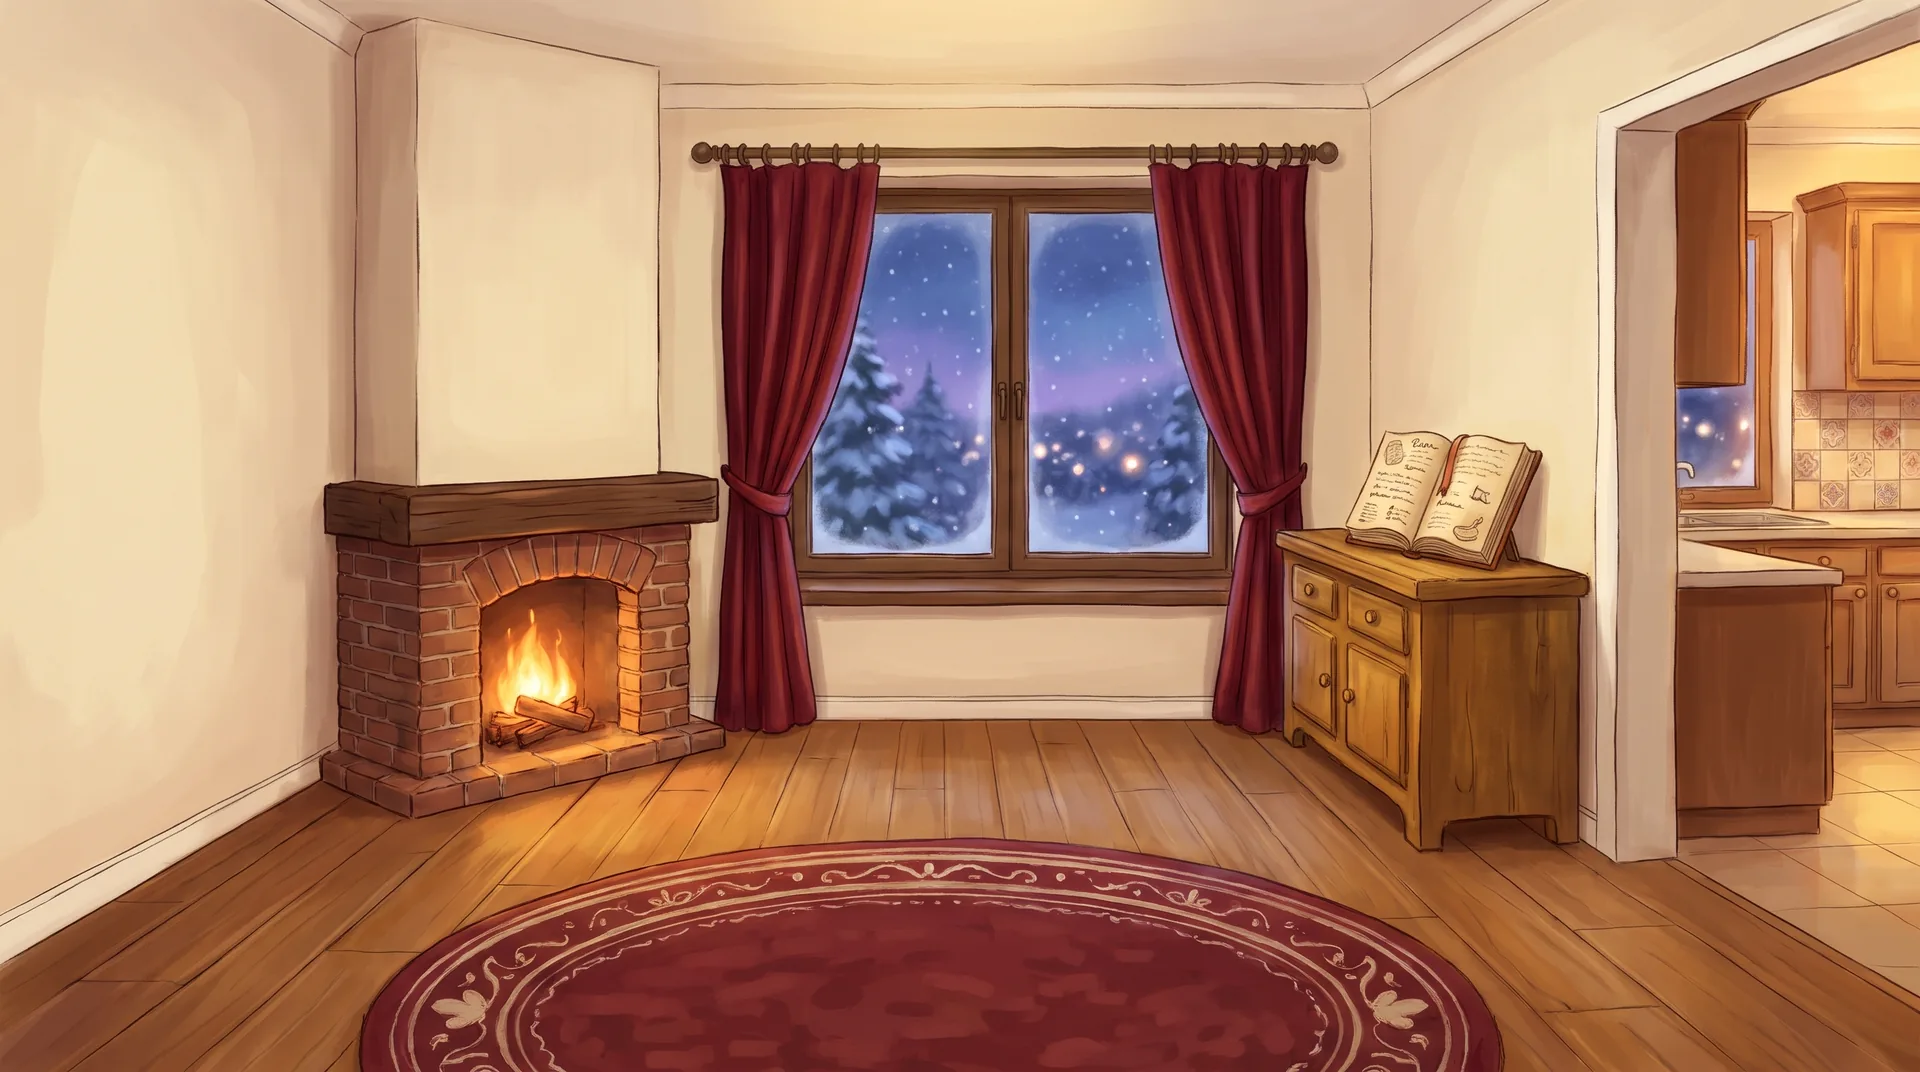
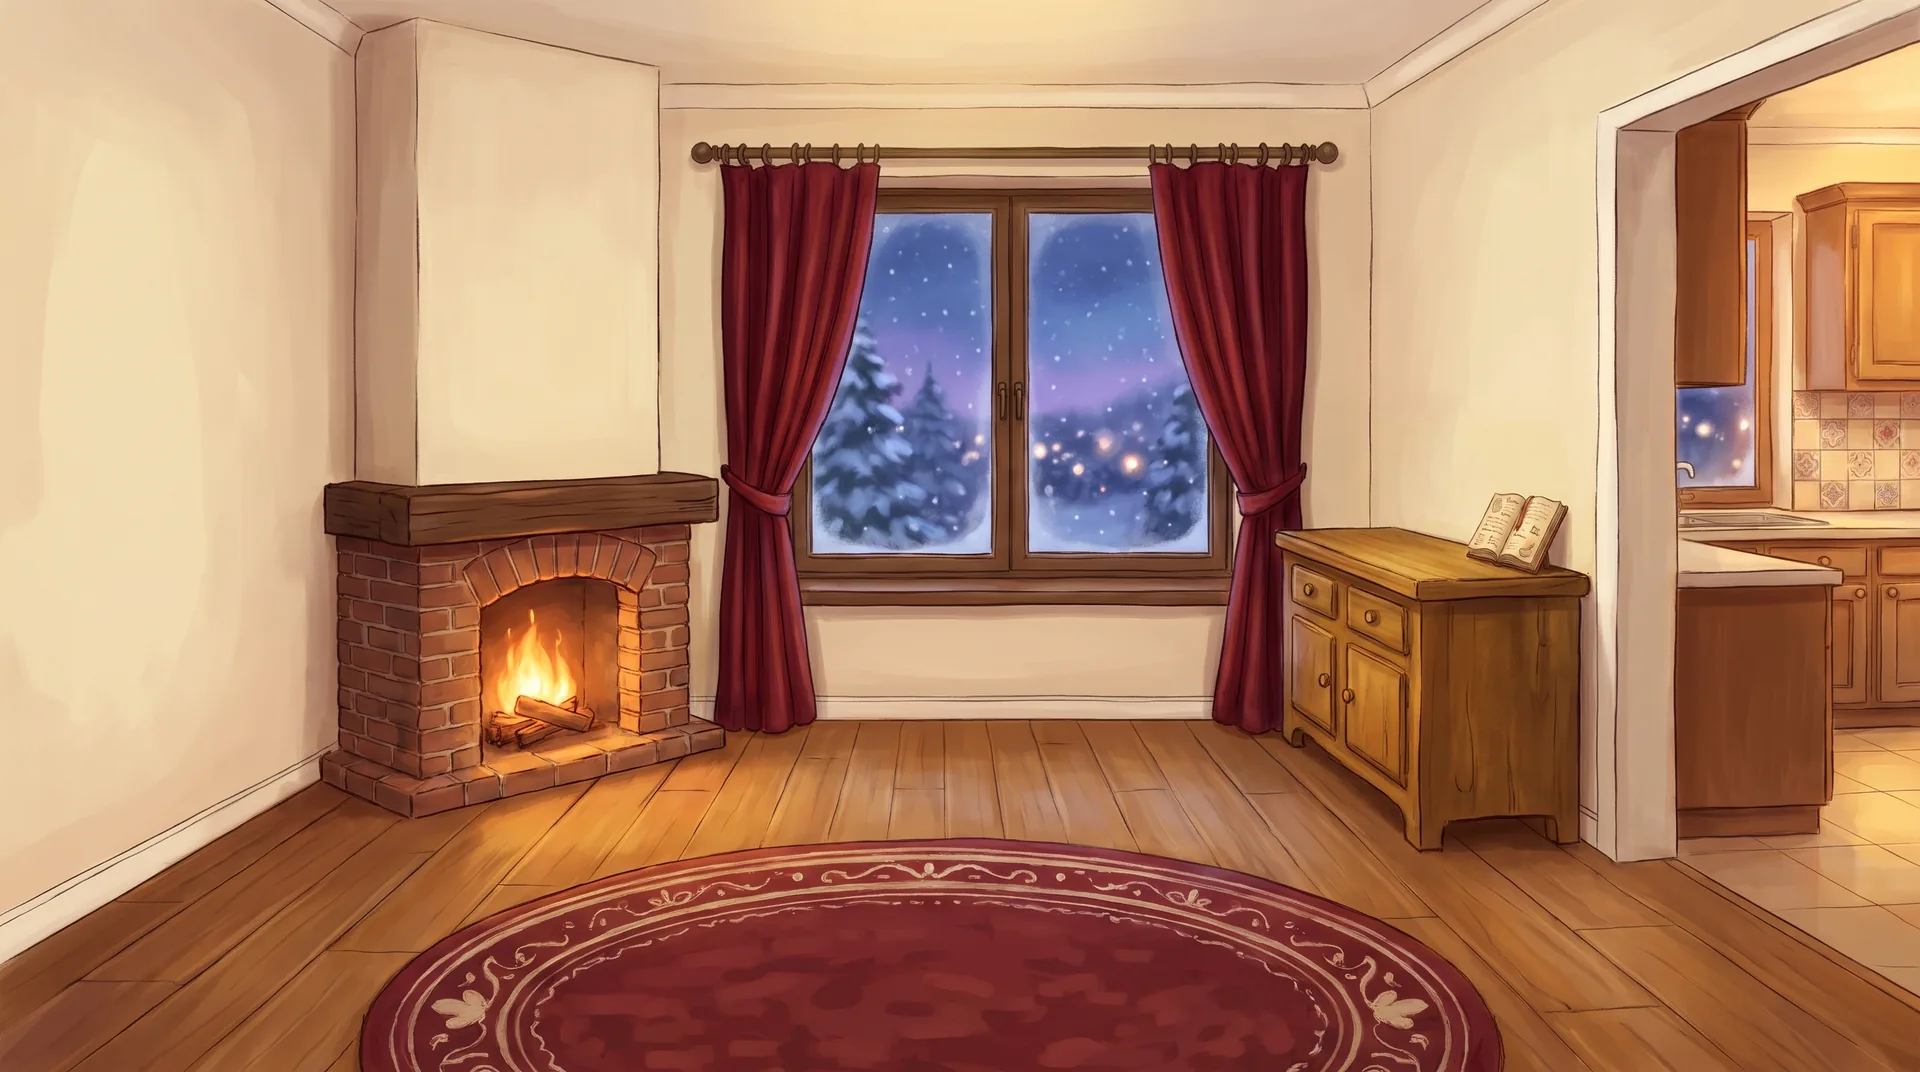
Repaint the sideboard with room for the cookie plate
Only the sideboard area of the room painting was regenerated (smaller
recipe book at the right end) and blended back in; the cookie plate now
sits on the clear left half of the top.

Claude-Session: https://claude.ai/code/session_016HTeTL1HdhdTLdUQNXXCi3

Changed region(s): [[0.6875, 0.4002, 0.8438, 0.5541]]

diff --git a/kaka/index.html b/kaka/index.html
@@ -67,7 +67,7 @@ img{user-select:none;-webkit-user-drag:none}
 #zzz{position:absolute;left:30%;top:-2%;font-size:2.4cqw;font-weight:700;color:#fff;text-shadow:0 2px 6px rgba(0,0,0,.6);animation:zz 2.4s ease-in-out infinite;pointer-events:none}
 @keyframes zz{0%{opacity:0;transform:translateY(.5cqw)}50%{opacity:1}100%{opacity:0;transform:translateY(-1.5cqw)}}
 #oSideboard{left:66%;top:38%;width:17%;height:41%}
-#cookies{position:absolute;left:67.6%;top:47.7%;width:5%;pointer-events:none;z-index:2;filter:drop-shadow(0 .25cqw .2cqw rgba(60,30,10,.45))}
+#cookies{position:absolute;left:68.4%;top:45.9%;width:5.5%;pointer-events:none;z-index:2;filter:drop-shadow(0 .25cqw .2cqw rgba(60,30,10,.45))}
 #oKitchen{left:84.5%;top:9%;width:15.5%;height:70%}
 #oKitchen .tag{top:3cqw}
 #oTable{left:45%;bottom:-5%;width:41%;height:42%}
